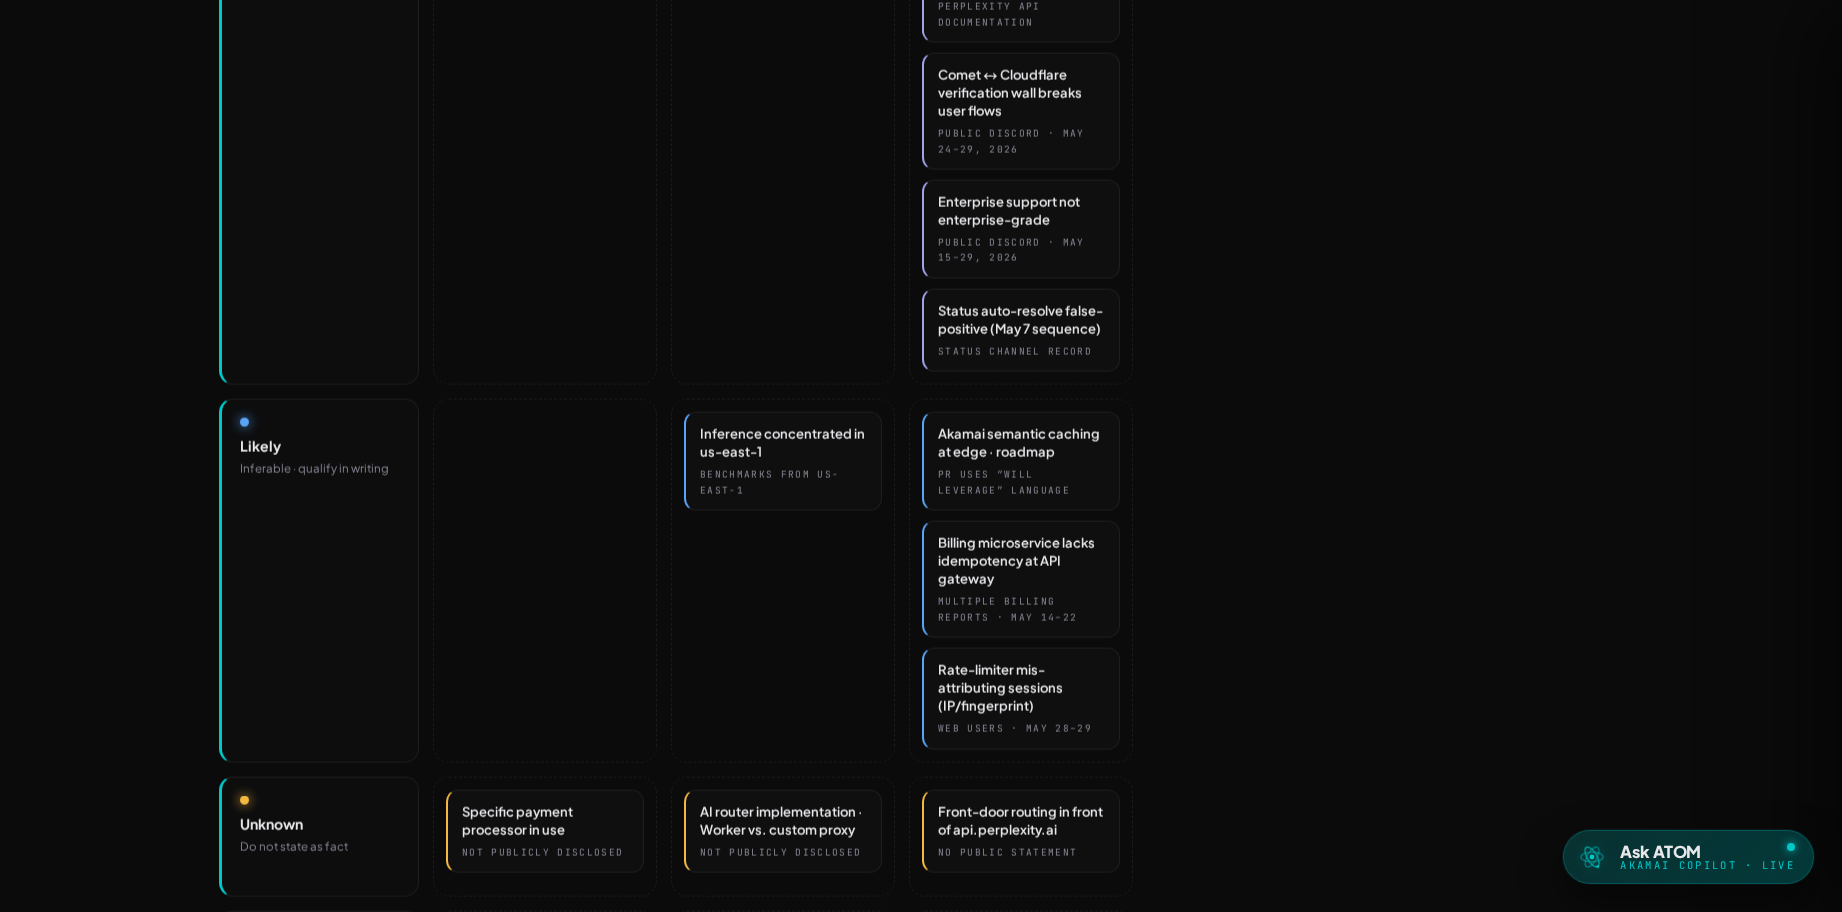
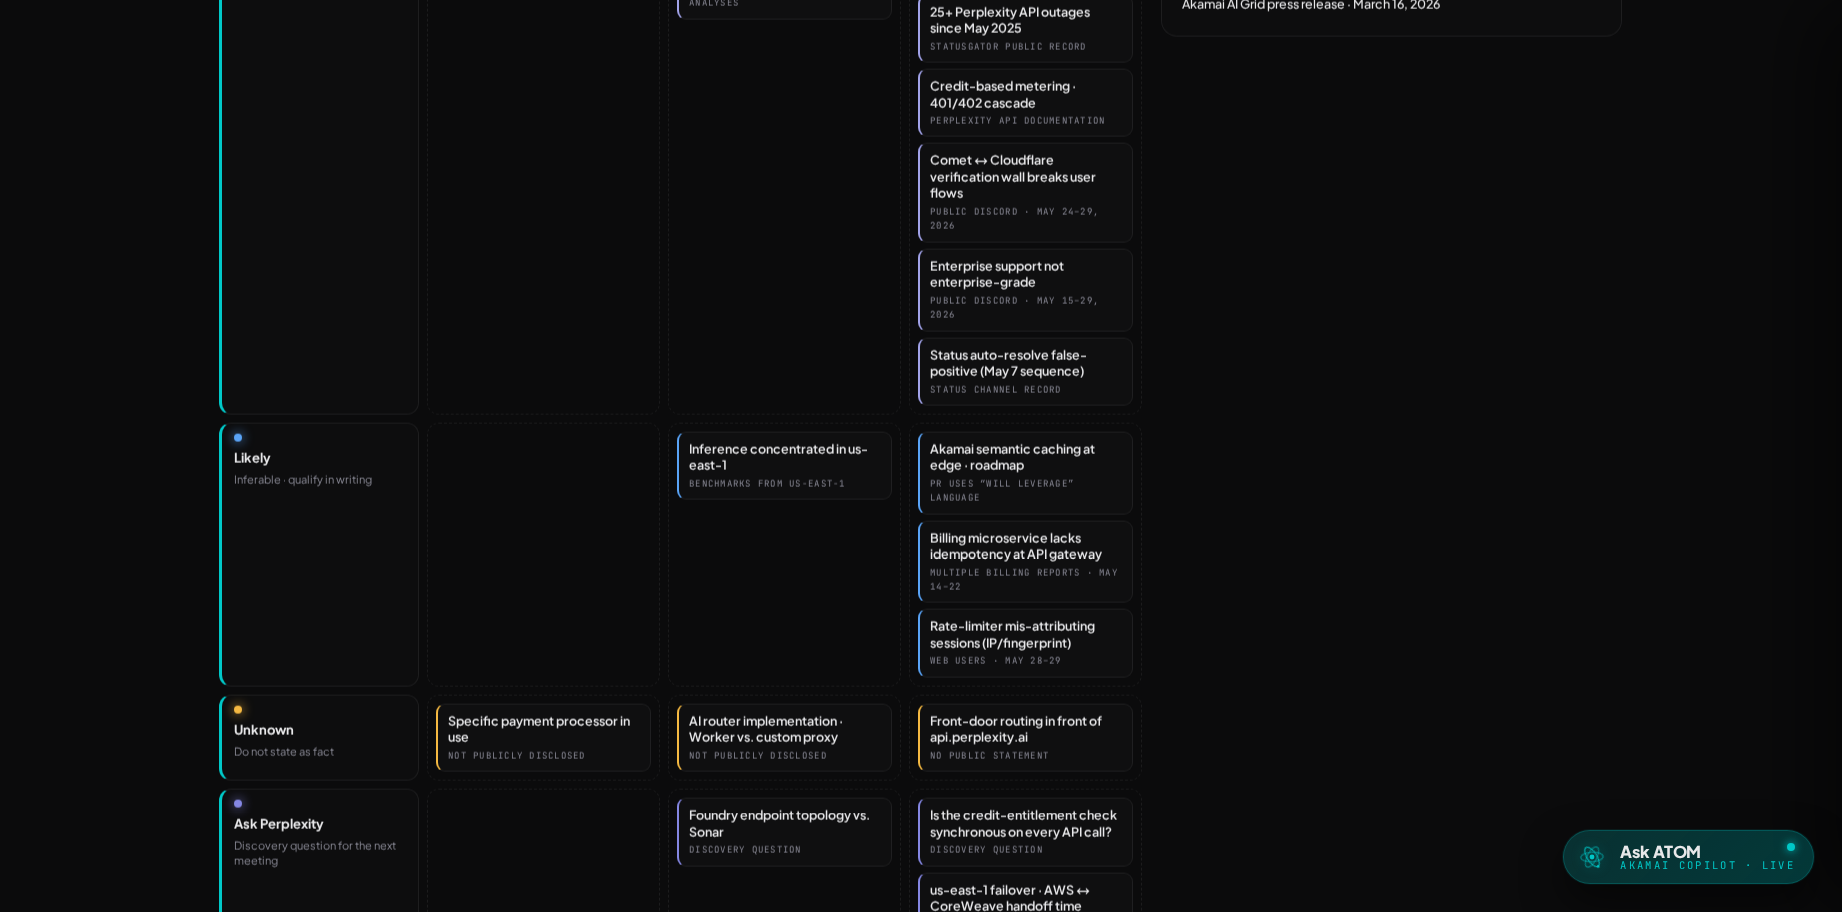
style(claims): tighten Claims Risk Matrix · compact rows · trim panel padding
Live-QA on c5fab2f showed the matrix reading too spread-out. Add a
scoped compaction layer at the end of styles.css that lowers vertical
gaps, row-label padding, cell min-height, tile padding, and detail-panel
padding — without changing structure, copy, color tokens, or
functionality. Still visibly a 2D matrix; executive-readable type sizes
preserved; no overlapping labels, no horizontal overflow at 1842x912 or
1440x950.

Scope is strictly .section--claims via id+class selectors; no other
section, the dark-canon lock, the pilot CTA, or the ATOM v2 brand are
touched.

Knobs adjusted (all inside .section--claims):
- risk-matrix gap: clamp(1.4..2rem) → clamp(0.85..1.15rem)
- risk-matrix__body gap: 14px → 8px
- risk-row gap: 14px → 8px
- risk-row__label padding: 18px → 10px 12px, radius 14px → 12px
- risk-cell min-height: 120px → 78px; padding 12px → 8px; gap 10px → 6px
- risk-tile padding: 12px 14px → 8px 10px; radius 12px → 9px
- risk-detail padding: clamp(1.6..2rem) → clamp(1..1.25rem); radius 20→16
- detail title/body/meta margins trimmed; src-label/src font sizes
  reduced by a half-step
- section padding-top/bottom: clamp(2.4..3.4rem)

Validation
- npx vite build: clean.
- npm run verify: all checks PASS, including dark-canon assertions.
- dist grep: exact pilot CTA sentence present 2x; Plaud/sonar-pro/email
  regex all 0.
- Headless QA: claims-risk captured at both 1842x912 and 1440x950, no
  horizontal overflow, FAB clear, drawer input visible.

diff --git a/styles.css b/styles.css
@@ -5199,3 +5199,73 @@ main#main { padding-bottom: clamp(96px, 11vh, 132px); }
   gap: var(--s-3);
   align-items: center;
 }
+
+/* ============================================================
+ * CLAIMS RISK MATRIX — compaction pass (c5fab2f → tightening)
+ * Tighten vertical whitespace and gaps without sacrificing the
+ * 2D-grid structure. Preserves dark-canon, ATOM v2 design.
+ * ============================================================ */
+.section--claims .risk-matrix {
+  gap: clamp(0.85rem, 1.4vw, 1.15rem) !important;
+  margin-top: clamp(0.75rem, 1.2vw, 1rem) !important;
+}
+.section--claims .risk-matrix__head {
+  padding-bottom: 8px !important;
+  margin-bottom: 2px !important;
+}
+.section--claims .risk-matrix__yaxis,
+.section--claims .risk-matrix__col-label {
+  padding: 4px 0 !important;
+}
+.section--claims .risk-matrix__cols { gap: 8px !important; padding-bottom: 4px !important; }
+
+.section--claims .risk-matrix__body { gap: 8px !important; }
+.section--claims .risk-row { gap: 8px !important; }
+.section--claims .risk-row__label {
+  padding: 10px 12px !important;
+  border-radius: 12px !important;
+}
+.section--claims .risk-row__dot { width: 8px !important; height: 8px !important; margin-bottom: 2px !important; }
+.section--claims .risk-row__name { font-size: 13px !important; }
+.section--claims .risk-row__hint { font-size: 11px !important; line-height: 1.35 !important; }
+
+.section--claims .risk-cell {
+  min-height: 78px !important;
+  padding: 8px !important;
+  gap: 6px !important;
+  border-radius: 12px !important;
+}
+.section--claims .risk-tile {
+  padding: 8px 10px !important;
+  border-radius: 9px !important;
+}
+.section--claims .risk-tile__title { font-size: 12.5px !important; line-height: 1.32 !important; margin-bottom: 3px !important; }
+.section--claims .risk-tile__src   { font-size: 9px !important; }
+
+.section--claims .risk-matrix__xaxis { margin-top: 4px !important; padding: 0 !important; }
+
+.section--claims .risk-detail {
+  padding: clamp(1rem, 1.4vw, 1.25rem) !important;
+  border-radius: 16px !important;
+  top: clamp(72px, 8vh, 96px);
+}
+.section--claims .risk-detail__title {
+  margin: 8px 0 6px !important;
+  font-size: clamp(1.05rem, .85rem + .45vw, 1.3rem) !important;
+}
+.section--claims .risk-detail__body {
+  font-size: 13px !important;
+  line-height: 1.5 !important;
+  margin-bottom: 10px !important;
+}
+.section--claims .risk-detail__meta { padding-top: 8px !important; }
+.section--claims .risk-detail__src-label { margin-bottom: 2px !important; font-size: 9.5px !important; }
+.section--claims .risk-detail__src { font-size: 12.5px !important; }
+
+/* Slightly tighten the section's outer padding for rhythm consistency */
+.section--claims { padding-top: clamp(2.4rem, 4vw, 3.4rem); padding-bottom: clamp(2.4rem, 4vw, 3.4rem); }
+
+@media (max-width: 1100px) {
+  /* On stacked layout the detail panel goes below — keep the same compaction */
+  .section--claims .risk-detail { padding: clamp(0.95rem, 2.2vw, 1.2rem) !important; }
+}
